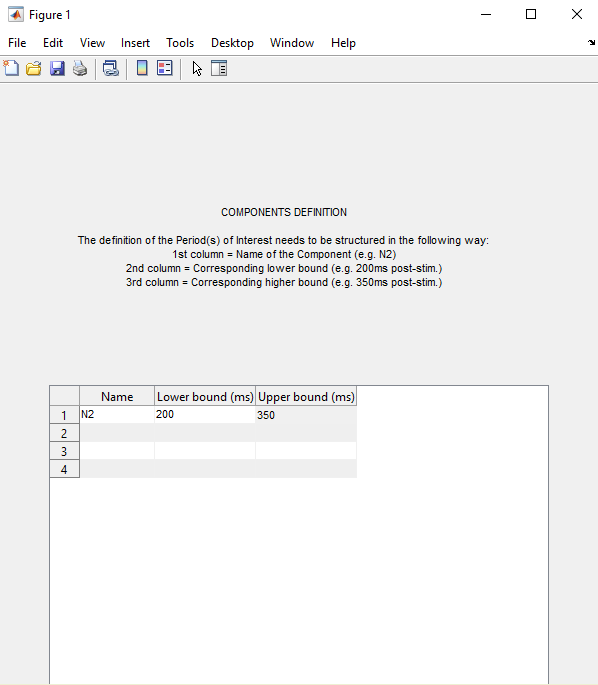
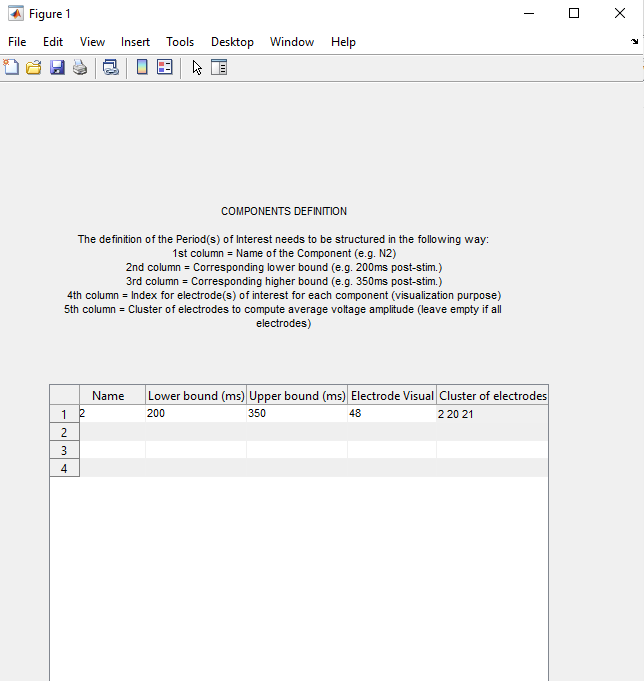
Fixed bug related to electrodes for visualization

diff --git a/GFPPeaks.m b/GFPPeaks.m
@@ -374,7 +374,10 @@ for n=1:sum(~cellfun(@(x) isempty(x), CompList(:,1))) % For each Comp
                 % Color vector
                 lineWid = ones(size(EEGTEMP,2),1); % line width
                 if length(CompN)>3
-                    ElectToCol = str2double(CompList(~cellfun(@(x) isempty(x),CompList(:,end)),end));
+%                     ElectToCol = str2double(CompList(~cellfun(@(x) isempty(x),CompList(:,end)),end));
+                    str = CompList(~cellfun(@(x) isempty(x),CompList(:,end-1)),end-1);
+                    ElectToCol = regexp(str,'(-)?\d+(\.\d+)?(e(-|+)\d+)?','match');
+                    ElectToCol = str2double(ElectToCol{:});
                     ElseCol = lines(length(ElectToCol));
                     ColVect = repmat(128/255,size(EEGTEMP,2),3);
                     ColVect(ElectToCol,:) = ElseCol;
